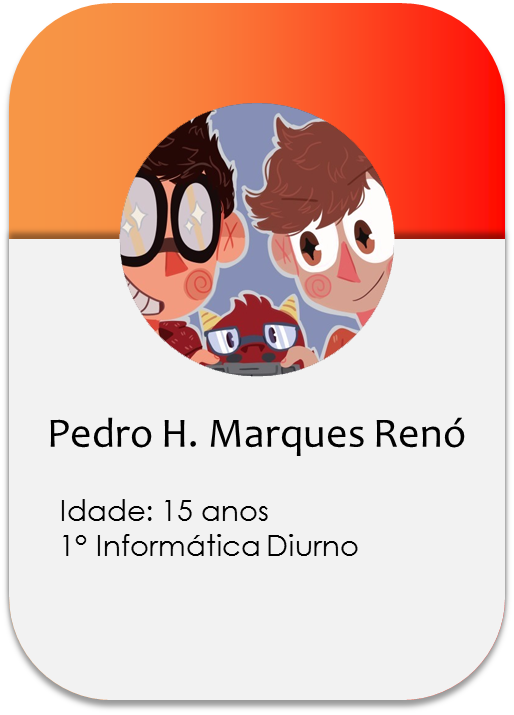
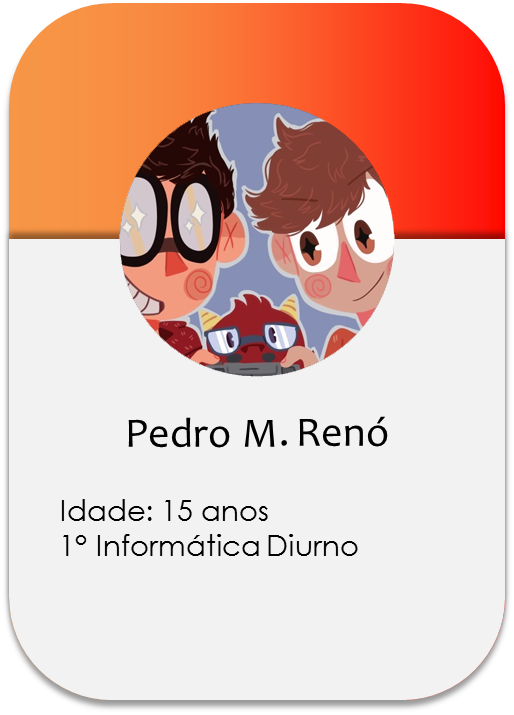
Nome e erros
-Alteração do nome de um dos autores
-Correção de erros gerais

Changed region(s): [[0.0934, 0.5846, 0.9027, 0.6462]]

diff --git a/cotuca-games-sobre.html b/cotuca-games-sobre.html
@@ -36,7 +36,7 @@
 
     <nav id="campos">
         <div id="texto" style="top: 65px; left: 425px;">
-            &nbsp;&nbsp;&nbsp;Para o desenvolvimento deste site utilizamos três aplicativos que, para a nossa concepção, eram ideais e fundamentais para que o <a id="i" href="cotuca-games-home.html"><i>COTUCA GAMES</i></a> adquirisse este resultado. Para que este site tivesse um design agradável e uma ótima interface com o usuário, foi necessário o uso de um editor de texto, que no caso foi o <a id="i" href="https://www.sublimetext.com/3"><i>Sublime Text</i></a>, mas que poderia ser até mesmo o <i>Bloco de Notas</i>, e um editor de imagem, que foi o <a id="i" href="https://www.adobe.com/br/products/photoshop/free-trial-download.html"><i>Photoshop</i></a>, para a criação personagens, ícones etc. Esses aplicativos não foram tão importantes quanto o <a id="i" href="https://github.com/"><i>GitHub</i></a> (imagem ao lado), já que este aplicativo permite a nós uma programação compartilhada com colaboradores, desta forma não precisamos realizar projetos complexos indivudualmente. Além disso, ele funciona como um <a id="i" href="https://pt.wikipedia.org/wiki/Computa%C3%A7%C3%A3o_em_nuvem"><i>armazenamento em nuvem</i></a> onde todos os envolvidos terão acesso para editar e enviar. Isso previne o rompimento de arquivos que foram salvos em um pendrive, por exemplo.
+            &nbsp;&nbsp;&nbsp;Para o desenvolvimento deste site, utilizamos três aplicativos que, para a nossa concepção, eram ideais e fundamentais  ao <a id="i" href="cotuca-games-home.html"><i>COTUCA GAMES</i></a> a fim de adquirir este resultado. Para que este site tivesse um design agradável e uma ótima interface com o usuário, foi necessário o uso de um editor de texto, que no caso foi o <a id="i" href="https://www.sublimetext.com/3"><i>Sublime Text</i></a>, mas que poderia ser até mesmo o <i>Bloco de Notas</i>, e um editor de imagem, que foi o <a id="i" href="https://www.adobe.com/br/products/photoshop/free-trial-download.html"><i>Photoshop</i></a>, para a criação personagens, ícones etc. Esses aplicativos não foram tão importantes quanto o <a id="i" href="https://github.com/"><i>GitHub</i></a> (imagem ao lado), já que este aplicativo permite a nós uma programação compartilhada com colaboradores. Desta forma, não precisamos realizar projetos complexos individualmente. Além disso, ele funciona como um <a id="i" href="https://pt.wikipedia.org/wiki/Computa%C3%A7%C3%A3o_em_nuvem"><i>armazenamento em nuvem</i></a> onde todos os envolvidos terão acesso para editar e enviar. Isso previne o rompimento de arquivos que foram salvos em um pendrive, por exemplo.
         </div>        
         <a href="https://github.com/"><img id="imagem" style="top: -285px; left: 25px;" src="./img/geral/logo-github.png"></a>
     </nav>
@@ -51,7 +51,7 @@
 
     <footer class="footer" style="top: 200px;">
             &copy;2018 COTUCA GAMES<br>
-            Criado por Gustavo Henrique Béra, Pedro Henrique Marques Renó e Vitor Ramos.   
+            Criado por Gustavo Henrique Béra, Pedro M. Renó e Vitor Ramos.   
     </footer>      
 </body>
 </html>

diff --git a/cotuca-games-ultimoHeroi.html b/cotuca-games-ultimoHeroi.html
@@ -33,7 +33,7 @@
             	</canvas>
 				<img id="tela" src="./img/jogos/cotuca-ultimoHeroi/2.png"> <!-- ID TELA DEFINE TELA INICIAL E FINAL -->
 
-				<button id="btnIniciar" onclick="cliqueIniciar();" style="left: 580px; top: 675px;">Iniciar</button>
+				<button id="btnIniciar" onclick="cliqueIniciar();" style="left: 580px; top: 675px; visibility: hidden">Iniciar</button>
 
             	<button id="btnReiniciar" onclick="location.reload();" disabled="true" style="left: 580px; top: 675px;">Reiniciar</button>
         	</div>
@@ -49,13 +49,13 @@
         <tituloDescricao class="tituloDescricao">DESCRIÇÃO</tituloDescricao>
 
         <div id="descricao">
-            Quem não conhece o famoso jogo da memória? Aqui ele funciona quase igual ao original, com um pequeno detalhe: toda vez que você acertar você ganha três pontos
-            , ao errar, perde um ponto. O código inicial deste jogo foi matéria de uma de nossas aulas!
+            Um jovial rapaz descobre ser o último dos grandes gladiadores conhecidos por aniquilar monstros que, historicamente, assombraram seu vilarejo. Uma observação pertinente é a de que ele está desarmado. Seu único é armamento é a coragem. Contudo, um inimigo muito mais tenebroso está por vir em sua direção.
+            -Victor Botin Avelino
         </div>
 
         <footer class="footer" style="top: 500px;">
             &copy;2018 COTUCA GAMES<br>
-            Criado por Gustavo Henrique Béra, Pedro Henrique Marques Renó e Vitor Ramos.
+            Criado por Gustavo Henrique Béra, Pedro M. Renó e Vitor Ramos.
         </footer>
 
     </body>

diff --git a/js/CotucaMemoria.js b/js/CotucaMemoria.js
@@ -1,6 +1,7 @@
 var posicao = [1,2,3,4,5,6,7,8,1,2,3,4,5,6,7,8];
 var pontuacao = 0;
 var acertosTotais = 0;
+var pausar = false;
             
 posicao.sort(function() {return (Math.round(Math.random()) -0.5);})
 
@@ -8,7 +9,7 @@ function TrocaImagem(img)
 {
     if(img.name == "")
     {
-        bloquear(true);
+        bloquear(true); 
         //Verifica se é a primeira imagem clicada
         if(document.getElementById("nomeImagem").innerHTML == "VAZIO")
         {
@@ -56,12 +57,11 @@ function TrocaImagem(img)
                 document.getElementById("idImagem").innerHTML = "VAZIO";
 
                 atualizarLabel();
-            }, 1000);
+            }, 200);
 
             if(acertosTotais >= 7)
                 perdeu();
         }
-
         bloquear(false);
     }
 }

diff --git a/cotuca-games-home.html b/cotuca-games-home.html
@@ -26,7 +26,7 @@
 
     <footer class="footer" style="top: 900px;">
             &copy;2018 COTUCA GAMES<br>
-            Criado por Gustavo Henrique Béra, Pedro Henrique Marques Renó e Vitor Ramos.   
+            Criado por Gustavo Henrique Béra, Pedro M. Renó e Vitor Ramos.   
     </footer> 
 
     <script type="text/javascript" src=".\js\CotucaModal.js"></script>

diff --git a/cotuca-games-cobrinha.html b/cotuca-games-cobrinha.html
@@ -48,7 +48,7 @@
 
 		<footer class="footer" style="top: 500px;">
         	&copy;2018 COTUCA GAMES<br>
-        	Criado por Gustavo Henrique Béra, Pedro Henrique Marques Renó e Vitor Ramos.
+        	Criado por Gustavo Henrique Béra, Pedro M. Renó e Vitor Ramos.
     	</footer>  
 
     </body>

diff --git a/cotuca-games-genius.html b/cotuca-games-genius.html
@@ -57,7 +57,7 @@
 
 		<footer class="footer" style="top: 500px;">
         	&copy;2018 COTUCA GAMES<br>
-        	Criado por Gustavo Henrique Béra, Pedro Henrique Marques Renó e Vitor Ramos.
+        	Criado por Gustavo Henrique Béra, Pedro M. Renó e Vitor Ramos.
     	</footer>  
 
     </body>

diff --git a/cotuca-games-jogos.html b/cotuca-games-jogos.html
@@ -47,7 +47,7 @@
 
 		<footer class="footer" style="top: 250px;">
         	&copy;2018 COTUCA GAMES<br>
-        	Criado por Gustavo Henrique Béra, Pedro Henrique Marques Renó e Vitor Ramos.
+        	Criado por Gustavo Henrique Béra, Pedro M. Renó e Vitor Ramos.
     	</footer>  
 
     </body>

diff --git a/cotuca-games-memoria.html b/cotuca-games-memoria.html
@@ -79,7 +79,7 @@
 
 		<footer class="footer" style="top: 500px;">
         	&copy;2018 COTUCA GAMES<br>
-        	Criado por Gustavo Henrique Béra, Pedro Henrique Marques Renó e Vitor Ramos.
+        	Criado por Gustavo Henrique Béra, Pedro M. Renó e Vitor Ramos.
     	</footer>  
 
     </body>

diff --git a/cotuca-games-simulator.html b/cotuca-games-simulator.html
@@ -62,7 +62,7 @@
 
 		<footer class="footer" style="top: 500px;">
         	&copy;2018 COTUCA GAMES<br>
-        	Criado por Gustavo Henrique Béra, Pedro Henrique Marques Renó e Vitor Ramos.
+        	Criado por Gustavo Henrique Béra, Pedro M. Renó e Vitor Ramos.
     	</footer>  
 
     </body>

diff --git a/cotuca-games-velha.html b/cotuca-games-velha.html
@@ -59,7 +59,7 @@
 
 		<footer class="footer" style="top: 500px;">
         	&copy;2018 COTUCA GAMES<br>
-        	Criado por Gustavo Henrique Béra, Pedro Henrique Marques Renó e Vitor Ramos.
+        	Criado por Gustavo Henrique Béra, Pedro M. Renó e Vitor Ramos.
     	</footer>  
 
     </body>
